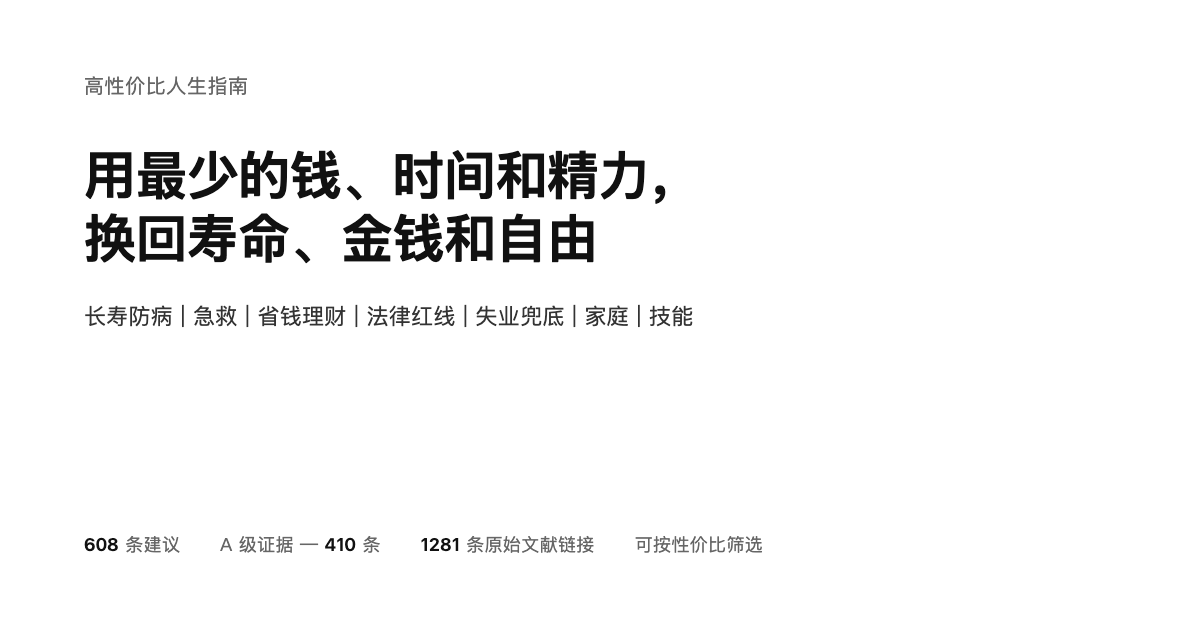
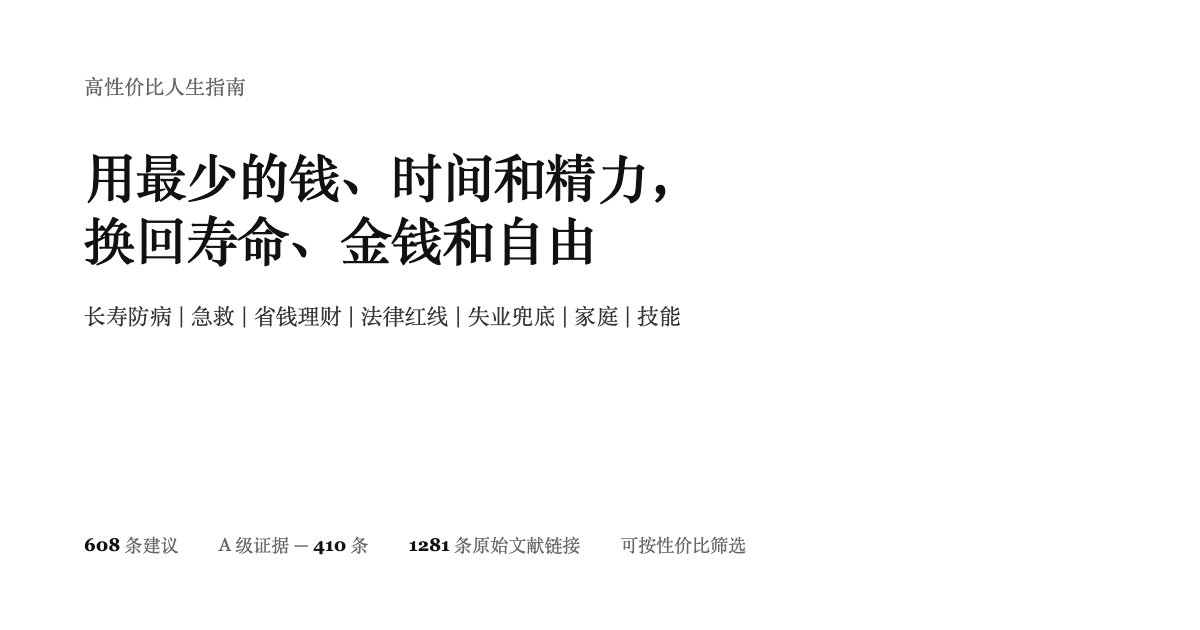
fix: шрифт og-zh выровнен с сайтом — --serif из zh/index.html
Был самописный набор (PingFang/Noto Serif SC), стал точная копия
--serif переменной сайта: Georgia, Songti SC, STSong, SimSun, ...
PNG перегенерирован — Songti serif с засечками, верифицирован визуально

diff --git a/og-zh.html b/og-zh.html
@@ -3,7 +3,7 @@
 *{margin:0;padding:0;box-sizing:border-box}
 body{
   width:1200px;height:630px;overflow:hidden;background:#ffffff;
-  font-family:"PingFang SC","Noto Serif SC","Microsoft YaHei",serif;
+  font-family:Georgia,"Songti SC","STSong",SimSun,"PingFang SC","Microsoft YaHei","Noto Serif SC","Source Han Serif SC","Times New Roman",serif;
   color:#111111;
 }
 .in{position:relative;padding:72px 84px;height:100%;display:flex;flex-direction:column}
